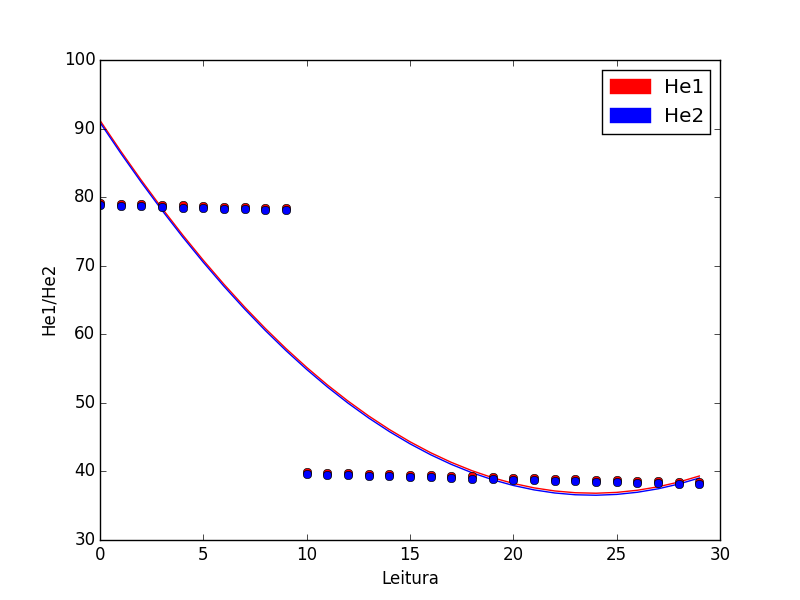
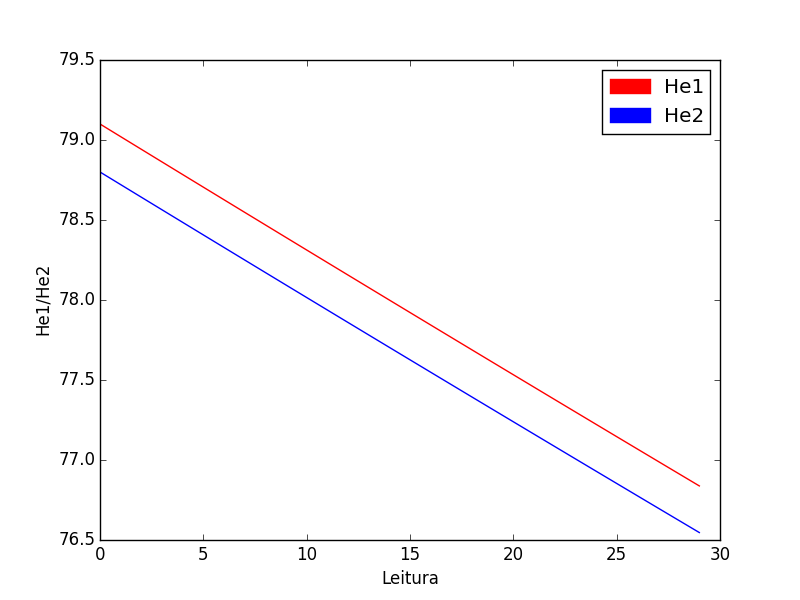
Plotting all the graphs

diff --git a/run.py b/run.py
@@ -6,7 +6,6 @@ import Image
 import ImageQt
 import ImageEnhance
 
-
 class MyMainwindow(QtGui.QMainWindow):
     def __init__(self, parent=None):
         QtGui.QMainWindow.__init__(self, parent)
@@ -15,8 +14,14 @@ class MyMainwindow(QtGui.QMainWindow):
         self.ui.scan.clicked.connect(self.start)
         
         # Gui objects
-        self.scene = QtGui.QGraphicsScene()
-        self.view_he = self.ui.hegraph
+        self.scene = []
+        for i in range(0,3):
+            print i
+            self.scene.append(QtGui.QGraphicsScene())
+        self.view = []
+        self.view.append(self.ui.hegraph)
+        self.view.append(self.ui.phapgraph)
+        self.view.append(self.ui.dpgraph)
         self.box =self.ui.log_text
         self.cursor = self.ui.log_text.textCursor()
         
@@ -30,8 +35,13 @@ class MyMainwindow(QtGui.QMainWindow):
         self.chthread = Thread("ch")
         self.connect(self.chthread, QtCore.SIGNAL("ch"), self.append)
         self.chthread.start()
-        self.display_image('images/he.png')
-        self.view_he.setScene(self.scene)
+        
+        scan.plot(scan.get_data('data.csv', 12), "DP")
+        scan.plot(scan.get_data('data.csv', 7), "PHAP")
+        scan.plot_he(scan.get_data('data.csv', 2),scan.get_data('data.csv', 3))
+        self.display_image('images/he.png',0)
+        self.display_image('images/DP.png',2)
+        self.display_image('images/PHAP.png',1)
         
     # append data on the text box        
     def append(self, text):
@@ -39,15 +49,15 @@ class MyMainwindow(QtGui.QMainWindow):
         self.cursor.insertText(text)
         self.box.ensureCursorVisible()
         
-
-    def display_image(self, img):
-        self.scene.clear()
+    def display_image(self, img, item):
+        self.scene[item].clear()
         #w, h = img.size
         self.imgQ = ImageQt.ImageQt(img)  # we need to hold reference to imgQ, or it will crash
         pixMap = QtGui.QPixmap.fromImage(self.imgQ)
-        myScaledPixmap = pixMap.scaled(self.view_he.size(), QtCore.Qt.KeepAspectRatio)#, KeepAspectRatio)
-        self.scene.addPixmap(myScaledPixmap)
-        self.scene.update()
+        myScaledPixmap = pixMap.scaled(self.view[item].size(), QtCore.Qt.KeepAspectRatio)#, KeepAspectRatio)
+        self.scene[item].addPixmap(myScaledPixmap)
+        self.scene[item].update()
+        self.view[item].setScene(self.scene[item])
         
 class Thread(QThread):
     def __init__(self, signal):
@@ -58,11 +68,10 @@ class Thread(QThread):
         self.wait()
 
     def run(self):
-        self.append_mp(self.signal)
+        self.append(self.signal)
 
-    def append_mp(self,signal):
+    def append(self,signal):
         lines =scan.choose_scan(signal)
-        #lines  = scan.read_f("mp.log")
         for line in lines:
             self.emit(QtCore.SIGNAL(signal),line)
 

diff --git a/scan.py b/scan.py
@@ -63,24 +63,31 @@ def chtcheck():
     fr.close()
 #    subprocess.Popen("gedit %s/cht.log  &" %prog_dir, stderr= subprocess.PIPE,stdout= subprocess.PIPE,shell=True)
 
-
-
 # plots He graph
-def plot_he(array1,array2,array3,array4):
+def plot_he(array1,array2): #,array3,array4):
     plt.plot(array1, 'r')
     plt.plot(array2, 'b')
-    plt.plot(array3, 'ro')
-    plt.plot(array4, 'bo')
+    #plt.plot(array3, 'r')
+    #plt.plot(array4, 'b')
     red_patch = mpatches.Patch(color='red', label='He1')
     blue_patch = mpatches.Patch(color='blue', label='He2')
     plt.legend(handles=[red_patch])
     plt.legend(handles=[red_patch,blue_patch])
     plt.ylabel('He1/He2')
     plt.xlabel('Leitura')
-    #plt.figure()
     plt.savefig("%s/images/he" %prog_dir)
     plt.close()
-    #plt.show()
+
+def plot(array1, fname): 
+    plt.plot(array1, 'r')
+    red_patch = mpatches.Patch(color='red', label='%s'%fname)
+    #blue_patch = mpatches.Patch(color='blue', label='He2')
+    plt.legend(handles=[red_patch])
+    #plt.legend(handles=[red_patch,blue_patch])
+    plt.ylabel('%s' %fname)
+    plt.xlabel('Leitura')
+    plt.savefig("%s/images/%s" %(prog_dir,fname))
+    plt.close()
 
 # chooses the scan and return an array with the log
 def choose_scan(scan_name):
@@ -105,8 +112,6 @@ def read_f(fname):
 
     fr.close()
     return lines
-
-    
     
 #print an array
 def print_array(array):
@@ -184,13 +189,18 @@ def adjcurve():
     he2 = he2_a[0] + numpy.multiply(leit,he2_a[1]) + numpy.multiply(leit2,he2_a[2])
     return he1, he2
 
-#chtcheck()
-#
-#mpcheck()
-#plot_he()
+def get_data(fname, col):
+    fr = open("%s/data/%s" %(prog_dir,fname), "r")
+    # measurements array
+    data = []
+    for lines in fr:
+        line = lines.split(",")
+        data.append(float(line[col]))
+    fr.close()
+    return data
+    
 he1,he2 = adjcurve()
-
-plot_he(he1,he2,he1_data,he2_data)
-#plot_he(he1_data,he2_data)
-
-#print read_f("mp.log")
+#plot_he(he1,he2,he1_data,he2_data)
+plot_he(he1_data,he2_data)
+plot(get_data('data.csv', 7), 'PHAP')
+plot(get_data('data.csv', 12), 'DP')

diff --git a/main.py b/main.py
@@ -2,7 +2,7 @@
 
 # Form implementation generated from reading ui file 'main.ui'
 #
-# Created: Thu Jun  2 15:00:22 2016
+# Created: Mon Jun  6 13:00:34 2016
 #      by: PyQt4 UI code generator 4.11.2
 #
 # WARNING! All changes made in this file will be lost!
@@ -66,12 +66,12 @@ class Ui_MainWindow(object):
         self.hegraph = QtGui.QGraphicsView(self.centralwidget)
         self.hegraph.setGeometry(QtCore.QRect(30, 310, 371, 301))
         self.hegraph.setObjectName(_fromUtf8("hegraph"))
-        self.hegraph_2 = QtGui.QGraphicsView(self.centralwidget)
-        self.hegraph_2.setGeometry(QtCore.QRect(500, 310, 361, 301))
-        self.hegraph_2.setObjectName(_fromUtf8("hegraph_2"))
-        self.hegraph_3 = QtGui.QGraphicsView(self.centralwidget)
-        self.hegraph_3.setGeometry(QtCore.QRect(960, 310, 351, 301))
-        self.hegraph_3.setObjectName(_fromUtf8("hegraph_3"))
+        self.phapgraph = QtGui.QGraphicsView(self.centralwidget)
+        self.phapgraph.setGeometry(QtCore.QRect(500, 310, 361, 301))
+        self.phapgraph.setObjectName(_fromUtf8("phapgraph"))
+        self.dpgraph = QtGui.QGraphicsView(self.centralwidget)
+        self.dpgraph.setGeometry(QtCore.QRect(960, 310, 351, 301))
+        self.dpgraph.setObjectName(_fromUtf8("dpgraph"))
         self.label = QtGui.QLabel(self.centralwidget)
         self.label.setGeometry(QtCore.QRect(180, 280, 41, 16))
         font = QtGui.QFont()
